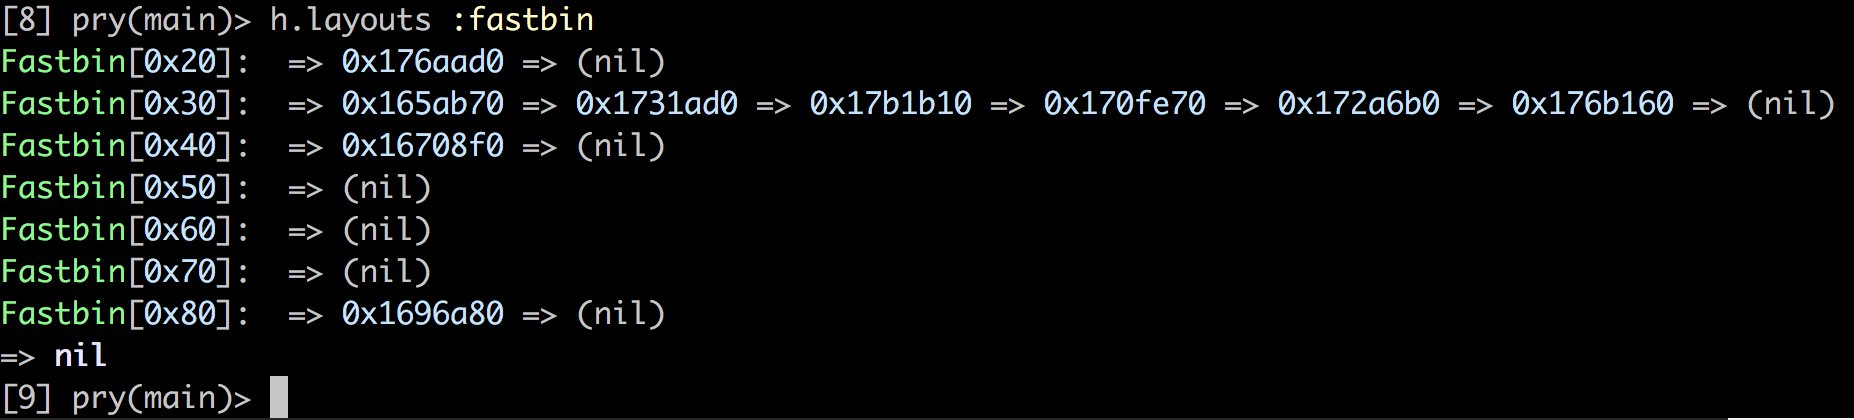
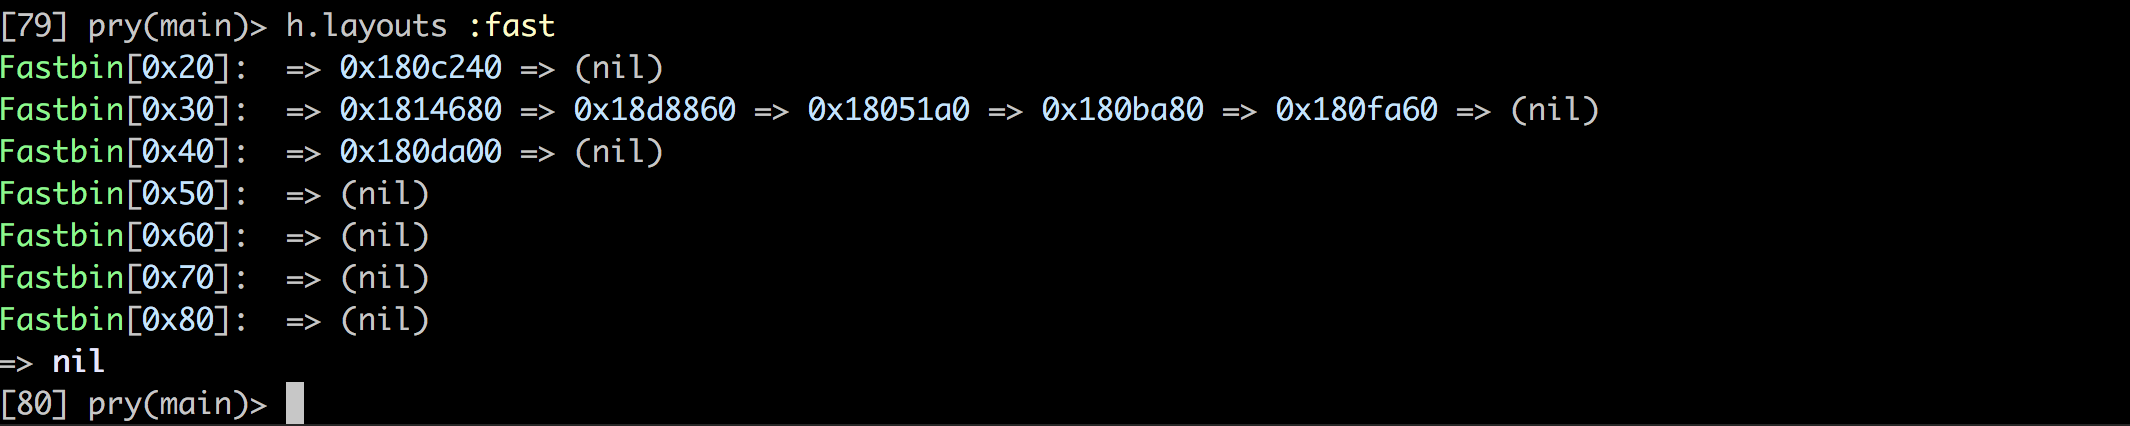
add `offset` method and fix bug of Helper.hex.

diff --git a/lib/heapinfo/process_info.rb b/lib/heapinfo/process_info.rb
@@ -6,7 +6,7 @@ module HeapInfo
   class ProcessInfo
     # Methods to be transparent to +process+.
     # e.g. +process.libc+ alias to +process.info.libc+.
-    EXPORT = %i(libc ld heap elf program stack bits).freeze
+    EXPORT = %i(libc ld heap program elf stack bits).freeze
 
     # @return [Integer] 32 or 64.
     attr_reader :bits
@@ -20,14 +20,14 @@ module HeapInfo
     attr_reader :ld
     alias elf program
 
-    # Instantiate a {ProcessInfo} object
+    # Instantiate a {ProcessInfo} object.
     #
     # @param [HeapInfo::Process] process Load information from maps/memory for +process+.
     def initialize(process)
       @pid = process.pid
       options = process.instance_variable_get(:@options)
       maps!
-      @bits = bits_of Helper.exe_of @pid
+      @bits = bits_of(Helper.exe_of(@pid))
       @elf = @program = Segment.find(maps, File.readlink("/proc/#{@pid}/exe"))
       @stack = Segment.find(maps, '[stack]')
       # well.. stack is a strange case because it will grow in runtime..
@@ -39,9 +39,18 @@ module HeapInfo
     # Heap will not be mmapped if the process not use heap yet, so create a lazy loading method.
     # Will re-read maps when heap segment not found yet.
     #
-    # @return [HeapInfo::Segment] The {Segment} of heap
+    # @return [HeapInfo::Segment] The {Segment} of heap.
     def heap # special handle because heap might not be initialized in the beginning
       @heap ||= Segment.find(maps!, '[heap]')
+    end
+
+    # Return segemnts load currently.
+    # @return [Hash{Symbol => Segment}] The segments in hash format.
+    def segments
+      EXPORT.map do |sym|
+        seg = send(sym)
+        [sym, seg] if seg.is_a?(Segment)
+      end.compact.to_h
     end
 
     private
@@ -50,7 +59,7 @@ module HeapInfo
 
     # force reload maps
     def maps!
-      @maps = Helper.parse_maps Helper.maps_of @pid
+      @maps = Helper.parse_maps(Helper.maps_of(@pid))
     end
 
     def bits_of(elf)

diff --git a/lib/heapinfo/process.rb b/lib/heapinfo/process.rb
@@ -89,6 +89,35 @@ module HeapInfo
       dumper.dump_chunks(*args)
     end
 
+    # Show the offset in pretty way between the segment.
+    # Very useful in pwn when leak some address,
+    # see examples for more details.
+    # @param [Integer] addr The leaked address.
+    # @param [Symbol] sym
+    #   The segement symbol to be calculated offset.
+    #   If this parameter not given, will loop segments
+    #   and find the most close one. See examples for more details.
+    # @return [void] Offset will show to stdout.
+    # @example
+    #   h.offset(0x7f11f6ae1670, :libc)
+    #   #=> 0xf6670 after libc
+    #   h.offset(0x5559edc057a0, :heap)
+    #   #=> 0x9637a0 after heap
+    #   h.offset(0x7f11f6ae1670)
+    #   #=> 0xf6670 after :libc
+    #   h.offset(0x5559edc057a0)
+    #   #=> 0x9637a0 after :heap
+    def offset(addr, sym = nil)
+      return unless load?
+      segment = @info.send(sym) if HeapInfo::ProcessInfo::EXPORT.include?(sym)
+      segment = nil unless segment.is_a?(HeapInfo::Segment)
+      if segment.nil?
+        sym, segment = @info.segments.select { |_, seg| seg.base <= addr }.min_by { |_, seg| addr - seg.base }
+      end
+      return puts "Invalid address #{Helper.hex(addr)}" if segment.nil?
+      puts Helper.color(Helper.hex(addr - segment.base)) + ' after ' + Helper.color(sym, sev: :sym)
+    end
+
     # Gdb-like command
     #
     # Show dump results like gdb's command +x+.

diff --git a/spec/process_spec.rb b/spec/process_spec.rb
@@ -22,6 +22,16 @@ describe HeapInfo::Process do
     it 'dump_chunks' do
       expect(@h.dump_chunks(:heap, 0x30).class).to be HeapInfo::Chunks
     end
+
+    it 'offset' do
+      libc_base = @h.libc.base
+      heap_base = @h.heap.base
+      expect { @h.offset(libc_base + 0x12345, :libc) }.to output("0x12345 after libc\n").to_stdout
+      expect { @h.offset(libc_base + 0x12345) }.to output("0x12345 after libc\n").to_stdout
+      expect { @h.offset(libc_base - 0xdeadbeef, :libc) }.to output("-0xdeadbeef after libc\n").to_stdout
+      expect { @h.offset(heap_base) }.to output("0x0 after heap\n").to_stdout
+      expect { @h.offset(0x123) }.to output("Invalid address 0x123\n").to_stdout
+    end
   end
 
   describe 'victim' do
@@ -29,7 +39,6 @@ describe HeapInfo::Process do
       HeapInfo::Cache.clear_all # force cache miss, to make sure coverage
       @victim = @compile_and_run.call(bit: 64, lib_ver: '2.23')
       @h = heapinfo(@victim, ld: '/ld')
-      HeapInfo::Helper.toggle_color(on: false)
     end
 
     it 'check process' do
@@ -108,7 +117,6 @@ describe HeapInfo::Process do
       @hs = %w(2.19 2.23 2.24).map do |ver|
         HeapInfo::Process.new(@compile_and_run.call(bit: 64, lib_ver: ver), ld: '/ld')
       end
-      HeapInfo::Helper.toggle_color(on: false)
     end
 
     it 'main_arena' do

diff --git a/spec/chunk_spec.rb b/spec/chunk_spec.rb
@@ -5,7 +5,6 @@ describe HeapInfo::Chunk do
     before(:all) do
       @fast = [0, 0x47, 0x1337].pack('L*').to_chunk(bits: 32)
       @small = [0, 0x48, 0xabcdef].pack('L*').to_chunk(bits: 32)
-      HeapInfo::Helper.toggle_color(on: false)
     end
     it 'basic' do
       expect(@fast.size_t).to be 4
@@ -32,7 +31,6 @@ data = "\\xEF\\xCD\\xAB\\x00\"...
     before(:all) do
       @fast = [0, 0x87, 0x1337].pack('Q*').to_chunk # default 64bits
       @small = [0, 0x90, 0xdead].pack('Q*').to_chunk
-      HeapInfo::Helper.toggle_color(on: false)
     end
 
     it 'basic' do

diff --git a/lib/heapinfo/helper.rb b/lib/heapinfo/helper.rb
@@ -108,7 +108,8 @@ module HeapInfo
       # @example
       #   HeapInfo::Helper.hex(1000) # => '0x3e8'
       def hex(num)
-        '0x' + num.to_s(16)
+        return format('0x%x', num) if num >= 0
+        format('-0x%x', -num)
       end
 
       # Retrieve pure class name(without module) of an object

diff --git a/spec/spec_helper.rb b/spec/spec_helper.rb
@@ -27,6 +27,7 @@ RSpec.configure do |config|
   end
 
   config.before(:all) do
+    HeapInfo::Helper.toggle_color(on: false)
     # return the absolute path of exectuable file.
     @compile_and_run = lambda do |bit: 64, lib_ver: '2.23', flags: ''|
       victim = HeapInfo::Helper.tempfile('victim')

diff --git a/README.md b/README.md
@@ -29,6 +29,7 @@ $ gem install heapinfo
 * **HeapInfo** works when the `victim` is being traced! i.e. you can use ltrace/strace/gdb and **HeapInfo** simultaneously!
 * `dump` - Dump arbitrarily address memory.
 * `layouts` - Show the current bin layouts, very useful for heap exploitation.
+* `offset` - Show the offset between given address and segment. Very useful for calculating relative offset.
 * `x` - Provide gdb-like commands.
 * `find` - Provide gdb-like commands.
 * More features and details can be found in [RDoc](http://www.rubydoc.info/github/david942j/heapinfo/master/)
@@ -105,14 +106,25 @@ h.debug {
 
 #### layouts
 ```ruby
-h.layouts :fastbin
+h.layouts :fast
 ```
 ![fastbin layouts](https://github.com/david942j/heapinfo/blob/master/examples/fastbin_layouts.png?raw=true)
 
 ```ruby
-h.layouts :unsorted_bin, :smallbin
+h.layouts :unsorted, :small
 ```
 ![smallbin layouts](https://github.com/david942j/heapinfo/blob/master/examples/unsorted_smallbin_layouts.png?raw=true)
+
+#### offset
+```ruby
+h.offset(0x7fda86fe8670)
+# 0xf6670 after libc
+h.offset(0x1839cd0, :heap) # specific segment name
+# 0x20cd0 after heap
+h.offset(0x1839cd0)
+# 0x20cd0 after heap
+```
+![offset](https://github.com/david942j/heapinfo/blob/master/examples/offset.png?raw=true)
 
 #### x - gdb-like command
 ```ruby
